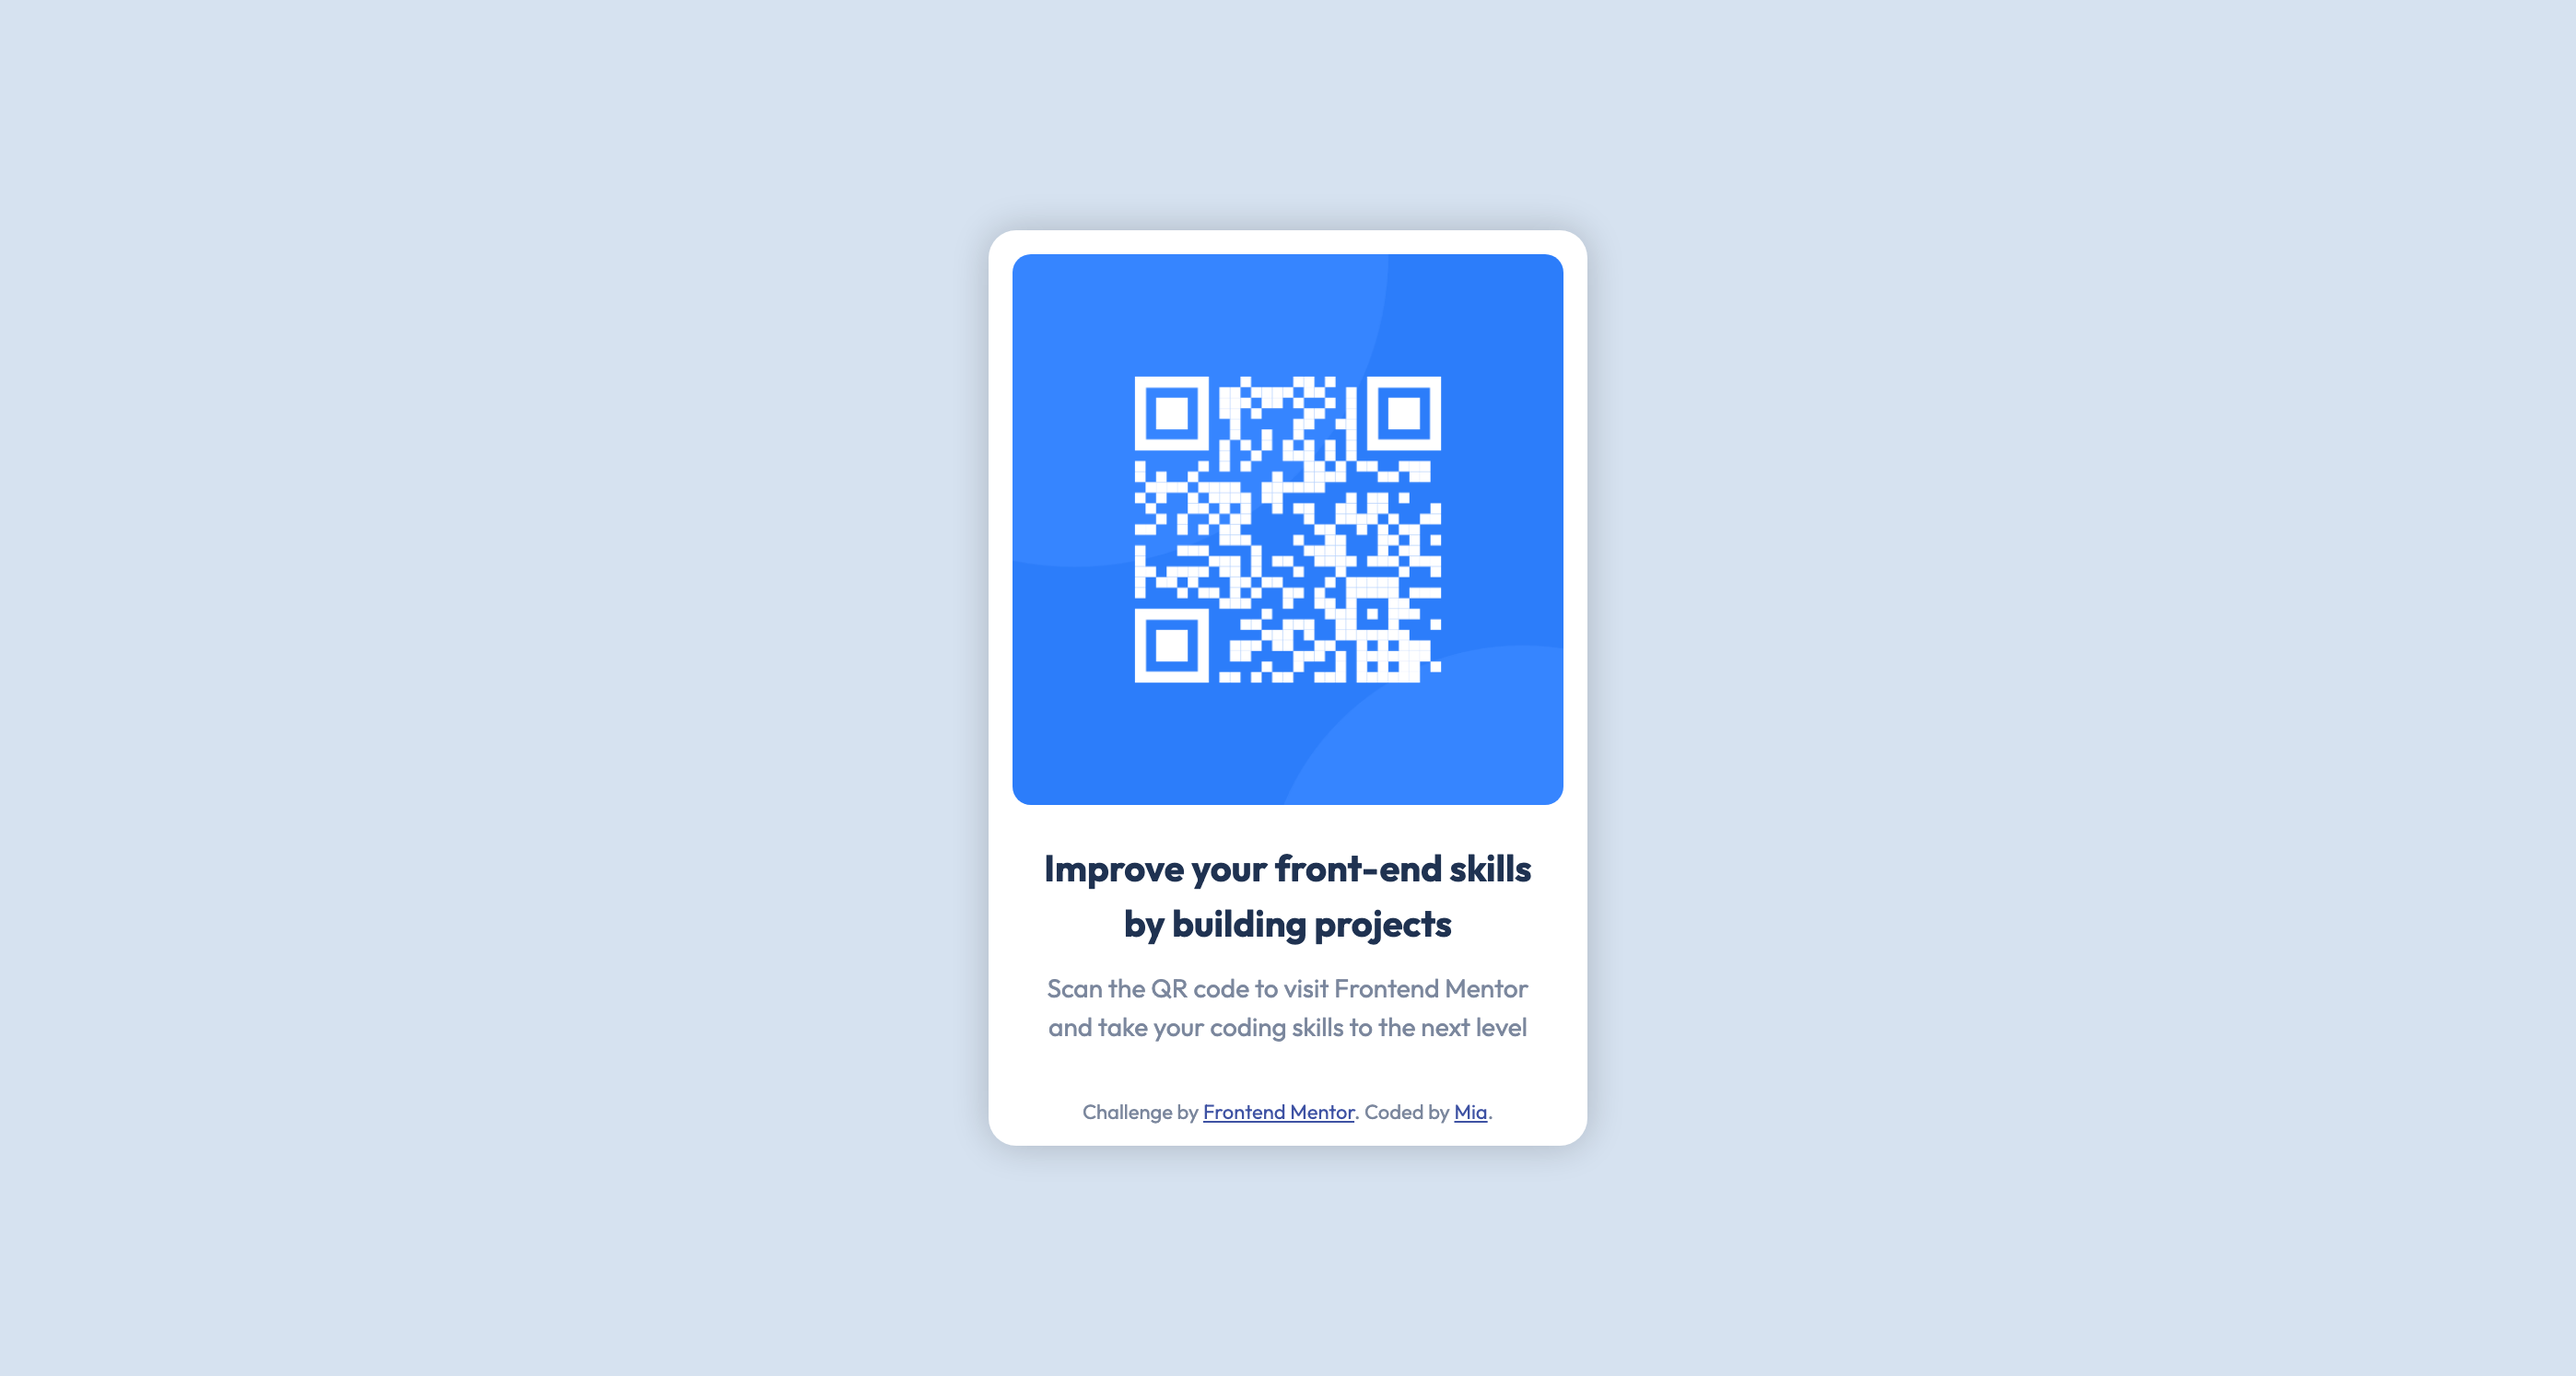
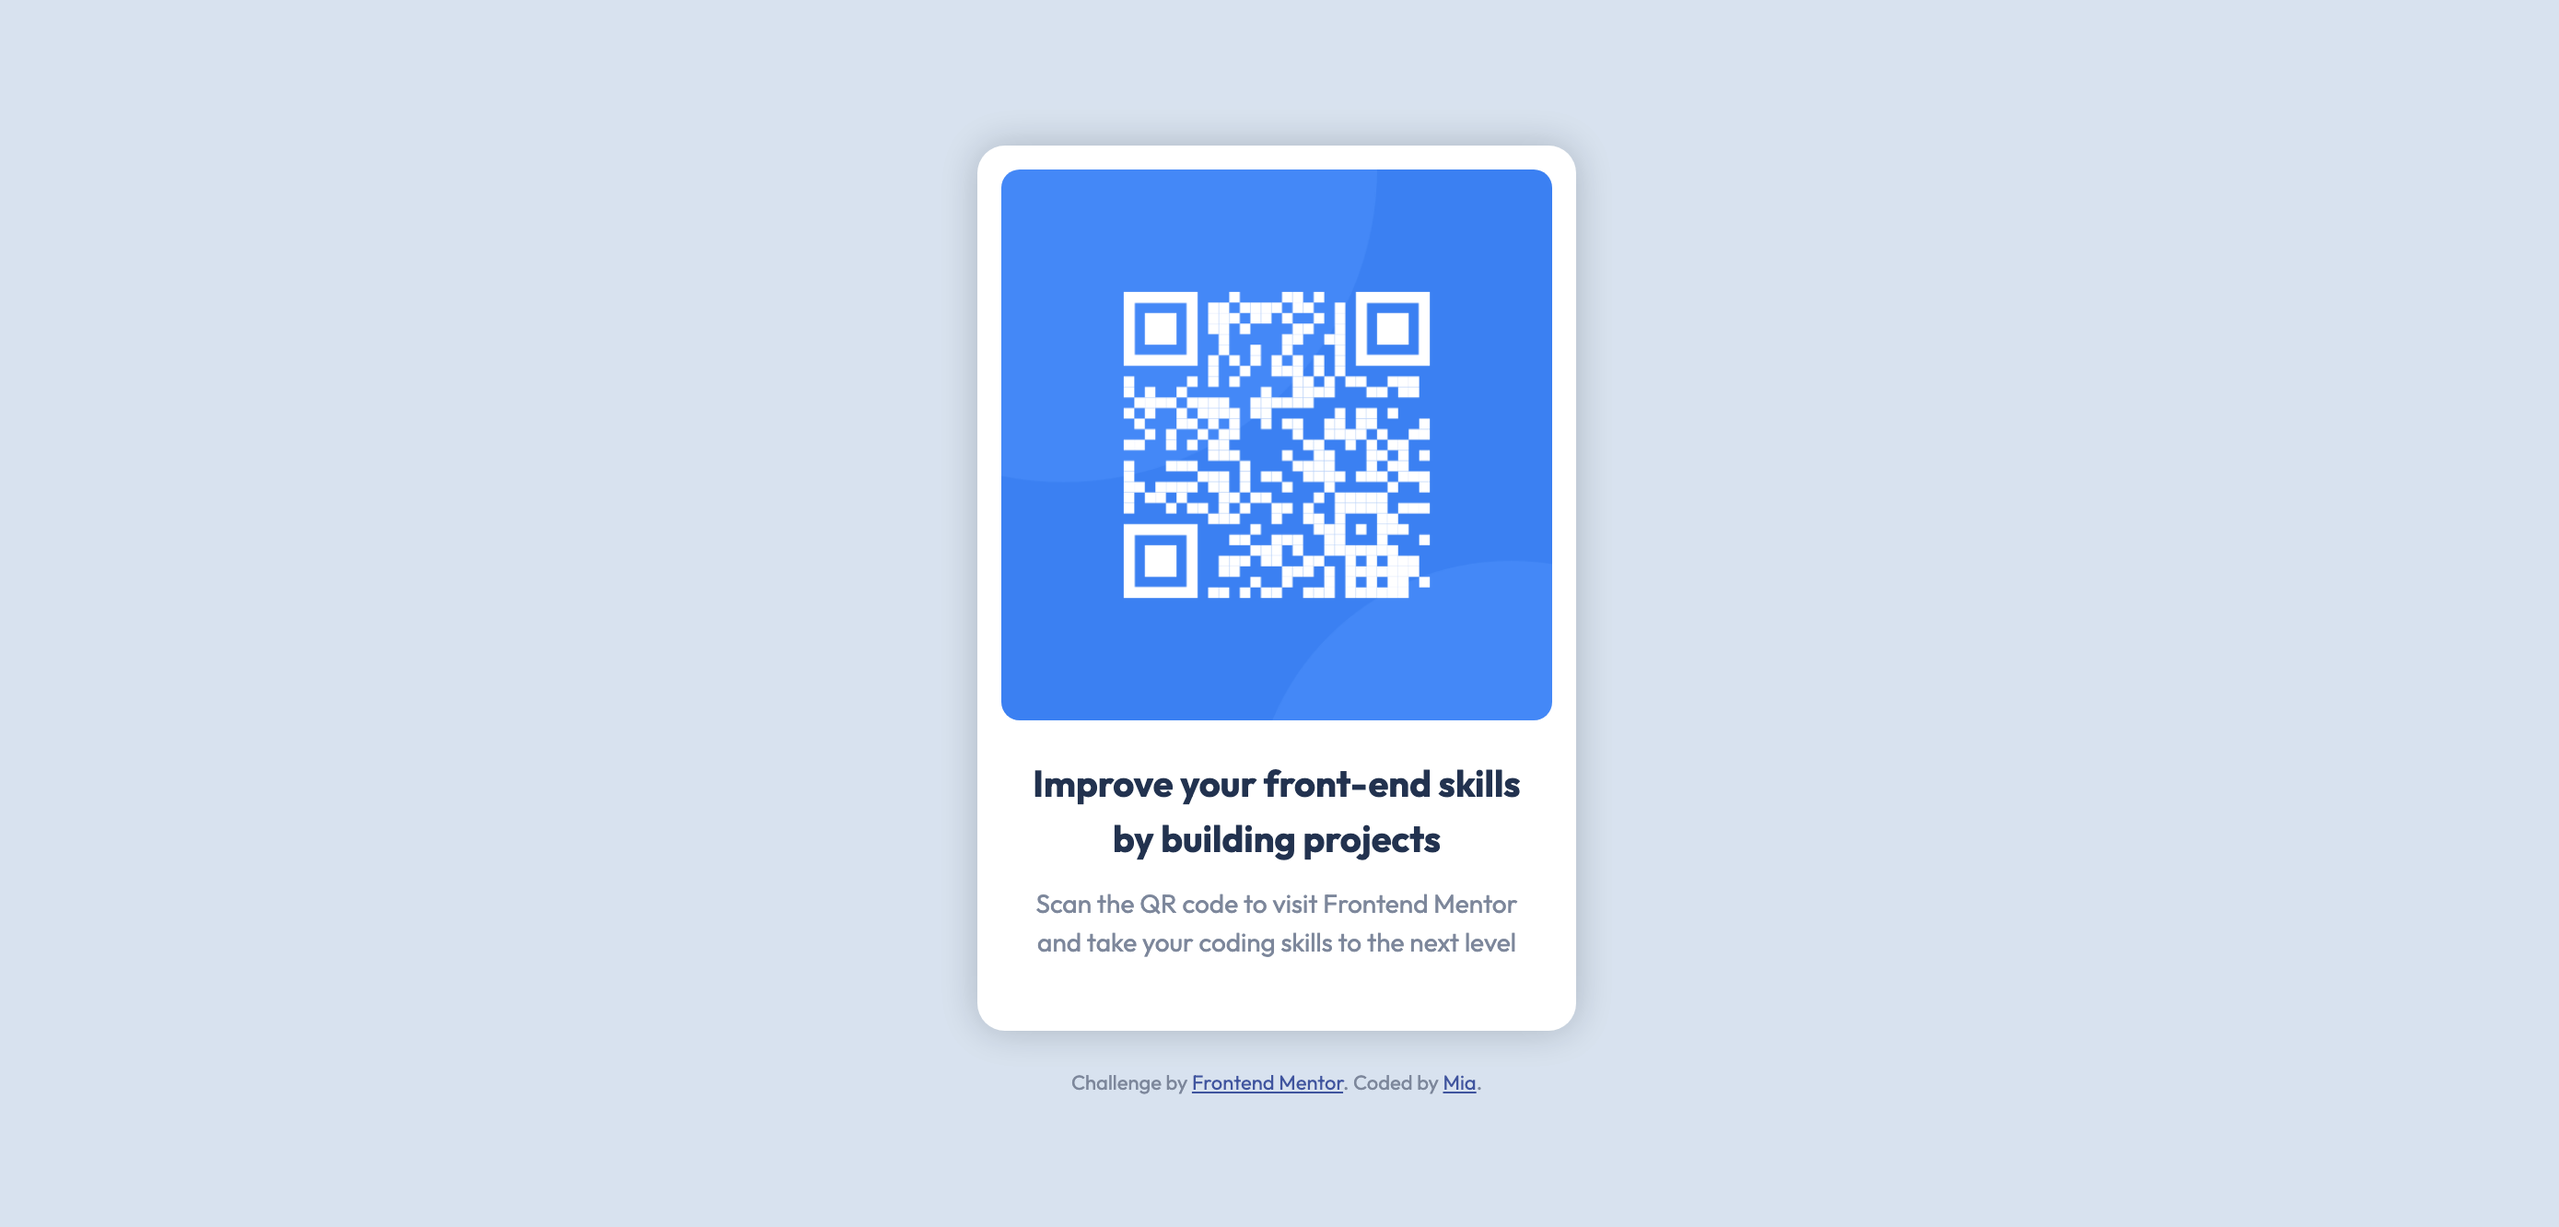
Changed div tag to footer

Changed region(s): [[0.3715, 0.6156, 0.6192, 0.8926], [0.3715, 0.0923, 0.6192, 0.5848], [0.4334, 0.2155, 0.5572, 0.4925]]

diff --git a/index.html b/index.html
@@ -5,8 +5,9 @@
   <meta name="viewport" content="width=device-width, initial-scale=1.0"> <!-- displays site properly based on user's device -->
 
   <link rel="icon" type="image/png" sizes="32x32" href="./images/favicon-32x32.png">
-  <!-- css -->
+  <!-- google fonts -->
   <link href="https://fonts.googleapis.com/css2?family=Outfit:wght@400;700&display=swap" rel="stylesheet">
+  <!-- css -->
   <link rel="stylesheet" href="style.css">
 
   <title>Frontend Mentor | QR code component</title>
@@ -23,10 +24,9 @@
       </figcaption>
     </main>
 
-  
-  <div class="attribution">
+  <footer class="attribution">
     Challenge by <a href="https://www.frontendmentor.io?ref=challenge" target="_blank">Frontend Mentor</a>. 
     Coded by <a href="#">Mia</a>.
-  </div>
+  </footer>
 </body>
 </html>
